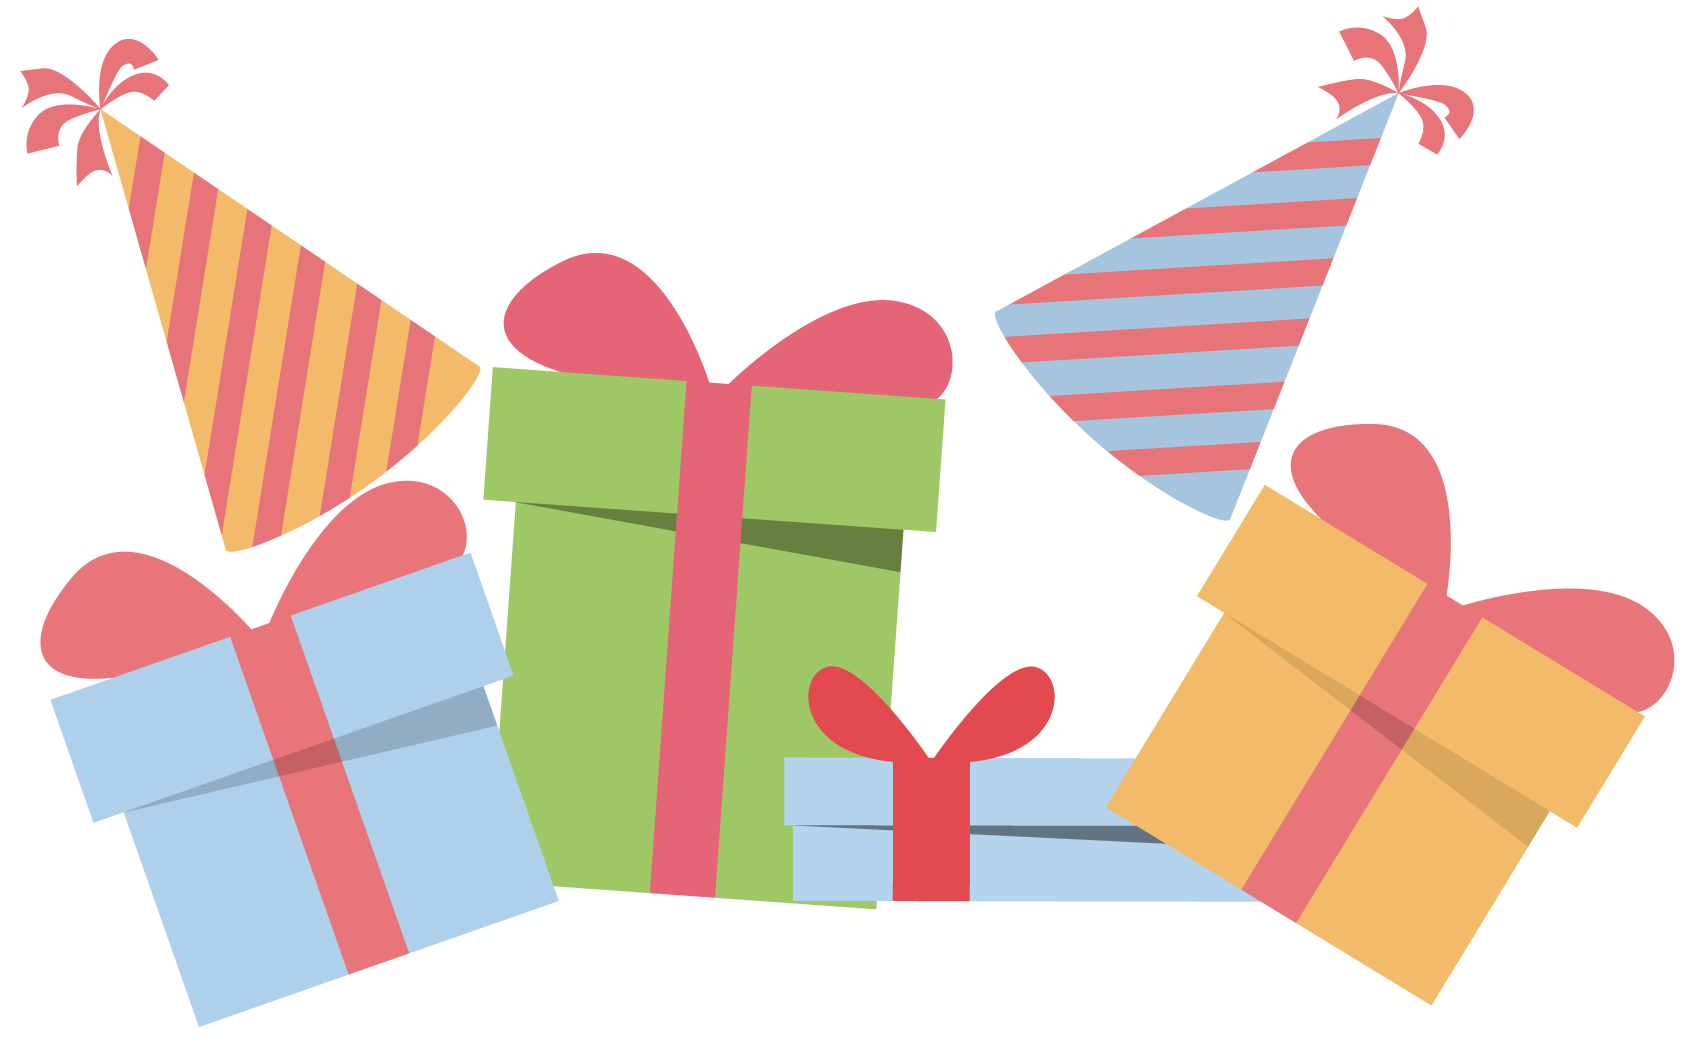
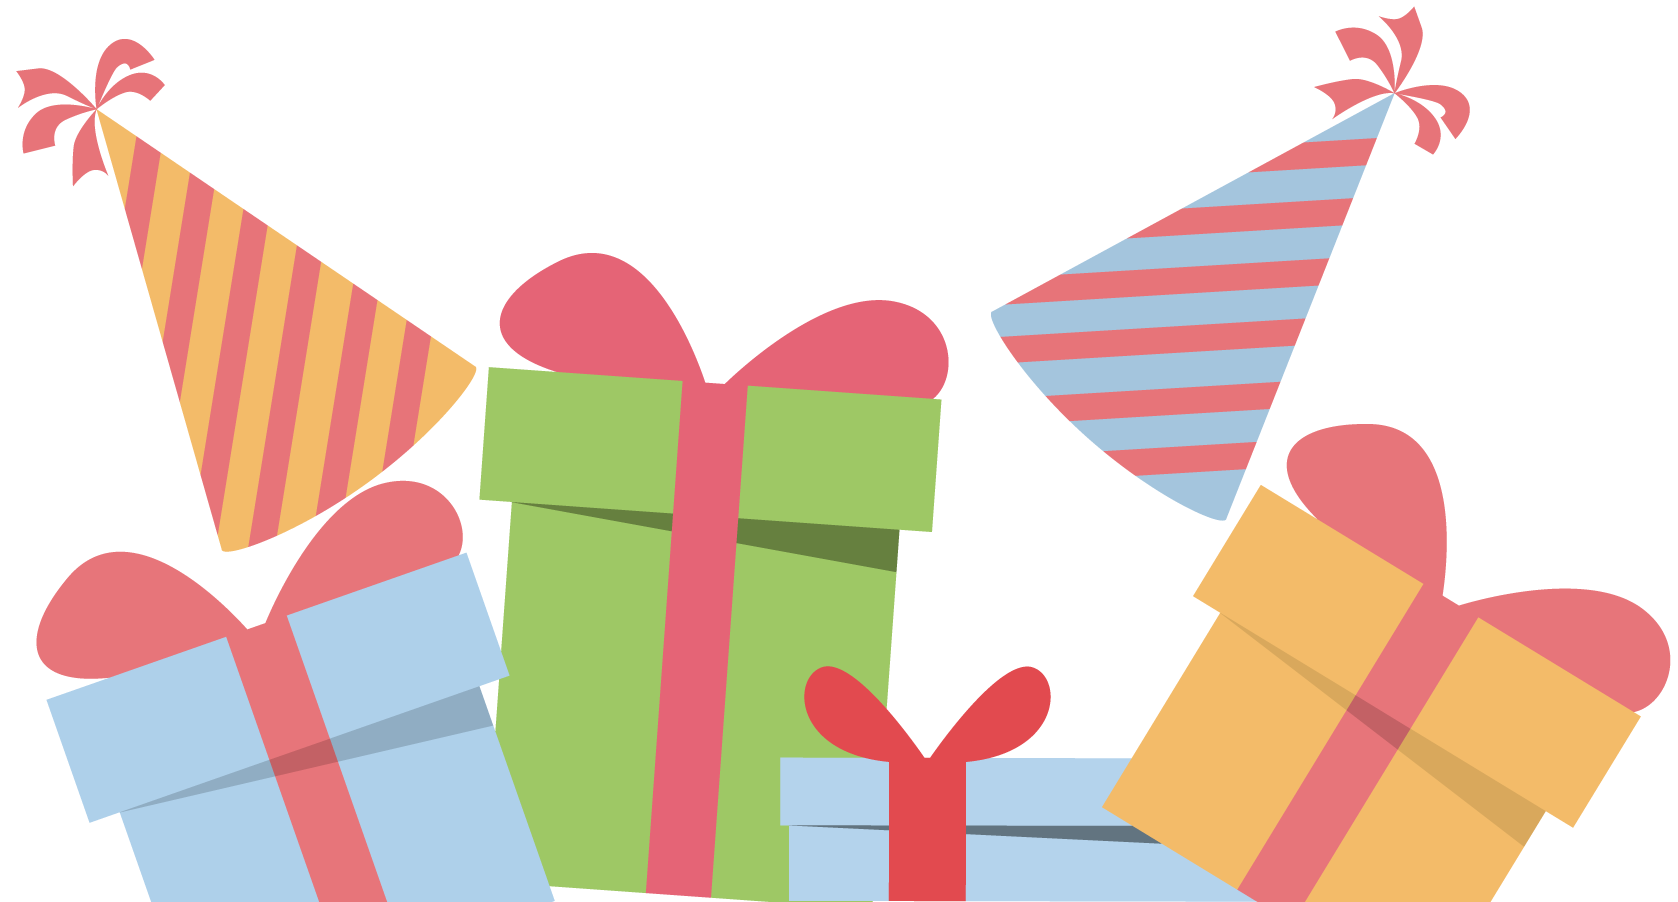
<refactor>:<refactor the name of cover page / modify the size of images>

diff --git a/src/components/Cover.css b/src/components/Cover.css
@@ -1,0 +1,109 @@
+html, body, h1, h2, h3, h4, h5, h6, hr, li, ul, p, a, img, button {
+  margin: 0;
+  padding: 0;
+  border: 0;
+  font-family: "Avenir", Helvetica, Arial, sans-serif;
+  font-weight: 300;
+  list-style: none; }
+
+html {
+  height: 100%; }
+
+* {
+  position: relative;
+  box-sizing: border-box; }
+
+button {
+  outline: none; }
+
+/*
+ * grid
+ */
+.body-wrapper {
+  height: 100vh;
+  background-repeat: repeat;
+  background-position: center center;
+  background-size: cover;
+  background-size: 80%;
+  animation: snowing 15s linear infinite; }
+
+.container {
+  min-height: 80vh; }
+
+.header-wrapper {
+  display: inline-block;
+  width: 100%; }
+
+.greeting-wrapper {
+  text-align: center; }
+  .greeting-wrapper .ribbon-wrapper {
+    width: 100%;
+    height: 100%;
+    background-repeat: no-repeat;
+    background-position: center center;
+    background-size: cover;
+    margin: 0 auto;
+    width: 50%;
+    height: 100px;
+    background-size: 100% 100%; }
+    .greeting-wrapper .ribbon-wrapper span {
+      overflow: hidden;
+      font-size: 54px;
+      letter-spacing: 5px;
+      font-weight: 500;
+      color: #ffffff; }
+  .greeting-wrapper p {
+    font-size: 24px;
+    letter-spacing: 15px;
+    font-weight: 500;
+    color: #d97a7c; }
+  @media screen and (max-width: 700px) {
+    .greeting-wrapper .ribbon-wrapper {
+      width: 100%;
+      height: 100%;
+      background-repeat: no-repeat;
+      background-position: center center;
+      background-size: cover;
+      margin: 0 auto;
+      width: 70%;
+      height: 100px;
+      background-size: 100% 100%; }
+      .greeting-wrapper .ribbon-wrapper span {
+        top: 15%;
+        overflow: hidden;
+        font-size: 32px;
+        letter-spacing: 5px;
+        font-weight: 500;
+        color: #ffffff; }
+    .greeting-wrapper p {
+      font-size: 18px;
+      letter-spacing: 8px;
+      font-weight: 500;
+      color: #d97a7c; } }
+
+#bg-circle {
+  animation: fall-down 3s linear infinite; }
+
+@keyframes spin {
+  100% {
+    -webkit-transform: rotate(360deg);
+    transform: rotate(360deg); } }
+@keyframes showUp {
+  from {
+    font-size: 2em;
+    color: #5db9ac; }
+  to {
+    font-size: 2.5em;
+    color: #ffffff; } }
+@keyframes fall-down {
+  50% {
+    transform: translate(50px, 50px); }
+  100% {
+    transform: translate(0px, 100px); } }
+@keyframes snowing {
+  from {
+    background-position: 0% 0%; }
+  to {
+    background-position: 0% 100%; } }
+
+/*# sourceMappingURL=Cover.css.map */

diff --git a/src/components/Cover.scss b/src/components/Cover.scss
@@ -1,0 +1,122 @@
+@import "../assets/scss/variables";
+@import "../assets/scss/base";
+@import "../assets/scss/mixin";
+
+.body-wrapper {
+  height: 100vh;
+  background: {
+    repeat: repeat;
+    position: center center;
+    size: cover;
+  }
+  background-size: 80%;
+  animation: snowing 15s linear infinite;
+}
+
+.container {
+  min-height: 80vh;
+}
+
+.header-wrapper {
+  display: inline-block;
+  width: 100%;
+}
+
+.greeting-wrapper {
+  text-align: center;
+
+    .ribbon-wrapper {
+      @include cover-img();
+      margin: 0 auto;
+      width: 50%;
+      height: 100px;
+      background-size: 100% 100%;
+
+      span {
+        overflow: hidden;
+        font-size: 54px;
+        letter-spacing: 5px;
+        font-weight: 500;
+        color: $white-color;
+      }
+    }
+
+    p {
+      font-size: 24px;
+      letter-spacing: 15px;
+      font-weight: 500;
+      color: $pink-color;
+      //animation: showUp 6s infinite;
+    }
+
+  @media screen and (max-width: 700px) {
+    .ribbon-wrapper {
+      @include cover-img();
+      margin: 0 auto;
+      width: 70%;
+      height: 100px;
+      background-size: 100% 100%;
+
+      span {
+        top: 15%;
+        overflow: hidden;
+        font-size: 32px;
+        letter-spacing: 5px;
+        font-weight: 500;
+        color: $white-color;
+      }
+    }
+
+    p {
+      font-size: 18px;
+      letter-spacing: 8px;
+      font-weight: 500;
+      color: $pink-color;
+      //animation: showUp 6s infinite;
+    }
+  }
+
+
+}
+
+#bg-circle {
+  animation: fall-down 3s linear infinite;
+}
+
+// animation keyframes
+
+@keyframes spin {
+  100% {
+    -webkit-transform: rotate(360deg);
+    transform: rotate(360deg);
+  }
+}
+
+@keyframes showUp {
+  from {
+    font-size: 2em;
+    color: $main-color;
+  }
+  to {
+    font-size: 2.5em;
+    color: $white-color;
+  }
+}
+
+@keyframes fall-down {
+  50% {
+    transform: translate(50px, 50px)
+  }
+  100% {
+    transform: translate(0px, 100px)
+  }
+}
+
+@keyframes snowing {
+  from {
+    background-position: 0% 0%;
+  }
+  to {
+    background-position: 0% 100%;
+  }
+}

diff --git a/src/components/Cover.vue b/src/components/Cover.vue
@@ -1,0 +1,49 @@
+<template>
+    <div class="body-wrapper" :style="{ backgroundImage: 'url(' + snowUrl + ')' }">
+        <div class="container">
+
+            <div class="header-wrapper">
+
+                <top-decoration v-for="item in imgPaths" :name="item"/>
+
+            </div>
+
+            <div class="greeting-wrapper">
+                <div class="ribbon-wrapper"
+                     :style="{ backgroundImage: 'url(' + ribbonUrl + ')' }">
+                    <span>Birthday</span>
+                </div>
+                <p>Happy 20th!</p>
+            </div>
+
+        </div>
+
+        <my-footer></my-footer>
+
+    </div>
+</template>
+
+<script lang="ts">
+    import {Component, Prop, Vue, Provide} from 'vue-property-decorator';
+    import TopDecoration from '@/components/TopDecoration.vue';
+    import MyFooter from '@/components/Footer.vue';
+
+
+    @Component({
+        components: {
+            TopDecoration,
+            MyFooter
+        },
+    })
+
+    export default class Cover extends Vue {
+//        @Prop() private msg: string;
+
+        @Provide() imgPaths: string[] = ["gift4.png", "gift1.png", "gift2.png", "gift3.png", "gift4.png", "gift5.png", "gift2.png"]
+        @Provide() ribbonUrl = require('../assets/img/ribbon.png')
+        @Provide() snowUrl = require('../assets/img/snow.png')
+    }
+</script>
+
+<!-- Add "scoped" attribute to limit CSS to this component only -->
+<style scoped src="./Cover.css"></style>

diff --git a/src/components/Footer.css b/src/components/Footer.css
@@ -26,7 +26,7 @@ button {
   .footer-wrapper .left-wrapper {
     display: inline-block; }
     .footer-wrapper .left-wrapper img {
-      height: 150px; }
+      height: 160px; }
     @media screen and (max-width: 700px) {
       .footer-wrapper .left-wrapper img {
         height: 100px; } }
@@ -34,8 +34,7 @@ button {
     display: inline-block;
     float: right; }
     .footer-wrapper .right-wrapper img {
-      height: 160px;
-      transform: rotate(7deg); }
+      height: 160px; }
     @media screen and (max-width: 700px) {
       .footer-wrapper .right-wrapper img {
         height: 100px; } }

diff --git a/src/views/Home.vue b/src/views/Home.vue
@@ -1,17 +1,17 @@
 <template>
   <div class="home">
     <!--<img src="../assets/img/logo.png">-->
-    <IndexPage/>
+    <Cover/>
   </div>
 </template>
 
 <script lang="ts">
 import { Component, Vue } from 'vue-property-decorator';
-import IndexPage from '@/components/IndexPage.vue'; // @ is an alias to /src
+import Cover from '@/components/Cover.vue'; // @ is an alias to /src
 
 @Component({
   components: {
-      IndexPage,
+      Cover,
   },
 })
 export default class Home extends Vue {}

diff --git a/src/components/Footer.scss b/src/components/Footer.scss
@@ -11,7 +11,7 @@
   .left-wrapper {
     display: inline-block;
     img {
-      height: 150px
+      height: 160px
     }
 
     @media screen and (max-width: 700px) {
@@ -26,7 +26,7 @@
     float: right;
     img {
       height: 160px;
-      transform: rotate(7deg);
+      //transform: rotate(7deg);
     }
 
     @media screen and (max-width: 700px) {

diff --git a/tests/unit/HelloWorld.spec.ts b/tests/unit/HelloWorld.spec.ts
@@ -1,6 +1,6 @@
 import { expect } from 'chai'
 import { shallow } from '@vue/test-utils'
-import HelloWorld from '@/components/IndexPage.vue'
+import HelloWorld from '@/components/Cover.vue'
 
 describe('HelloWorld.vue', () => {
   it('renders props.msg when passed', () => {
